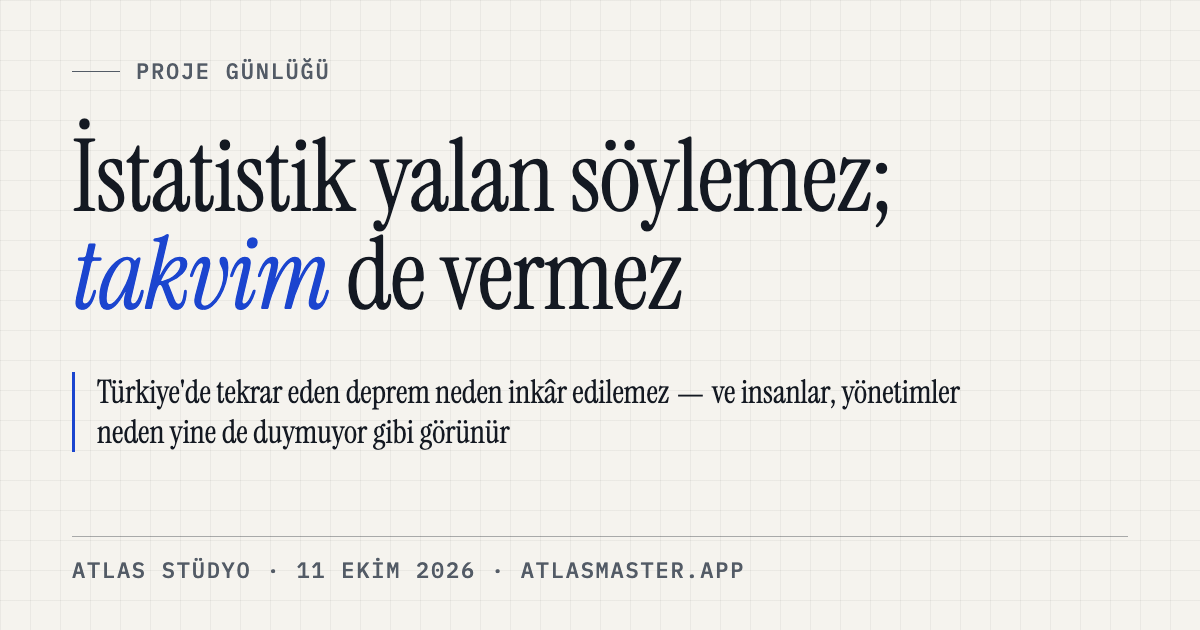
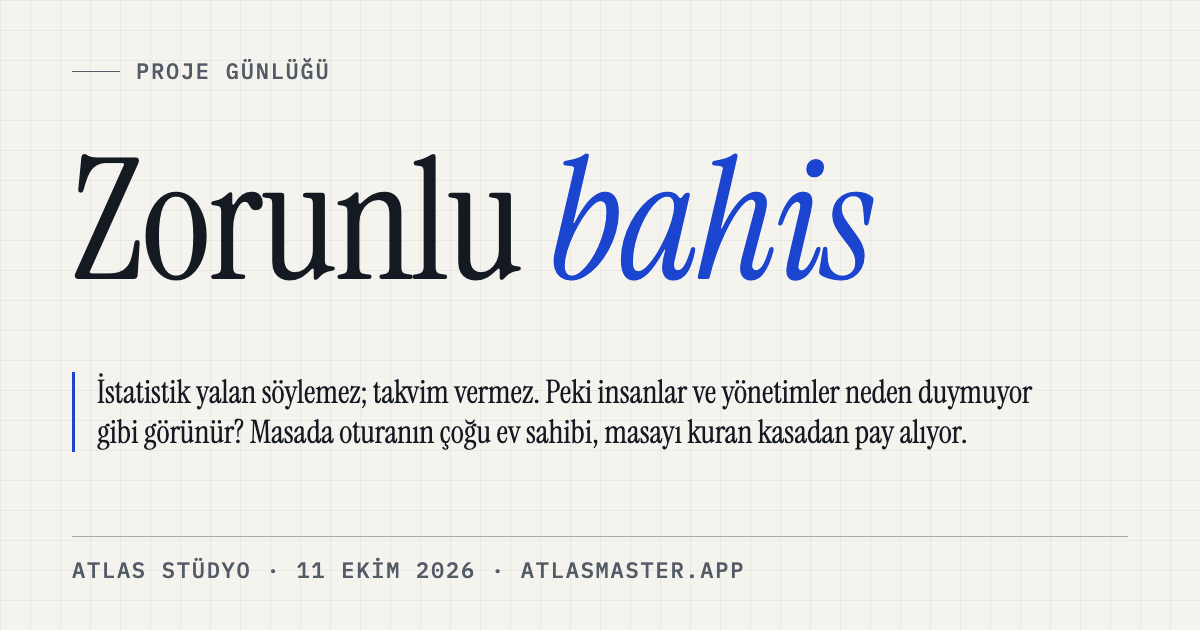
Blog 3. yazı taslak v2: Zorunlu bahis (deprem; metin YAZI.md ile değişti, tutum matrisi kaydırılabilir, tez kartları, künye); noindex, yayın onayı bekliyor

Changed region(s): [[0.0617, 0.181, 0.74, 0.5127], [0.0617, 0.6032, 0.8633, 0.7238]]

diff --git a/blog/deprem-istatistik-vurdumduymazlik.html b/blog/deprem-istatistik-vurdumduymazlik.html
@@ -4,18 +4,18 @@
 <meta name="robots" content="noindex">
 <meta charset="utf-8">
 <meta name="viewport" content="width=device-width, initial-scale=1">
-<title>İstatistik yalan söylemez; takvim de vermez — Atlas Stüdyo · Proje Günlüğü</title>
-<meta name="description" content="Türkiye&#x27;de tekrar eden deprem neden inkâr edilemez — ve insanlar, yönetimler neden yine de duymuyor gibi görünür">
+<title>Zorunlu bahis — Atlas Stüdyo · Proje Günlüğü</title>
+<meta name="description" content="İstatistik yalan söylemez; takvim vermez. Peki insanlar ve yönetimler neden duymuyor gibi görünür? Masada oturanın çoğu ev sahibi, masayı kuran kasadan pay alıyor.">
 <meta name="theme-color" content="#f5f3ee" media="(prefers-color-scheme: light)">
 <meta name="theme-color" content="#0c1016" media="(prefers-color-scheme: dark)">
-<meta property="og:title" content="İstatistik yalan söylemez; takvim de vermez">
-<meta property="og:description" content="Türkiye&#x27;de tekrar eden deprem neden inkâr edilemez — ve insanlar, yönetimler neden yine de duymuyor gibi görünür">
+<meta property="og:title" content="Zorunlu bahis">
+<meta property="og:description" content="İstatistik yalan söylemez; takvim vermez. Peki insanlar ve yönetimler neden duymuyor gibi görünür? Masada oturanın çoğu ev sahibi, masayı kuran kasadan pay alıyor.">
 <meta property="og:type" content="article">
 <meta property="og:url" content="https://atlasmaster.app/blog/deprem-istatistik-vurdumduymazlik.html">
 <meta property="og:image" content="https://atlasmaster.app/blog/og-deprem.png">
 <meta property="og:image:width" content="1200">
 <meta property="og:image:height" content="630">
-<meta property="og:image:alt" content="Proje günlüğü. İstatistik yalan söylemez; takvim de vermez. Türkiye&#x27;de tekrar eden deprem neden inkâr edilemez — ve insanlar, yönetimler neden yine de duymuyor gibi görünür Atlas Stüdyo, 11 Ekim 2026.">
+<meta property="og:image:alt" content="Proje günlüğü. Zorunlu bahis. İstatistik yalan söylemez; takvim vermez. Peki insanlar ve yönetimler neden duymuyor gibi görünür? Masada oturanın çoğu ev sahibi, masayı kuran kasadan pay alıyor. Atlas Stüdyo, 11 Ekim 2026.">
 <meta name="twitter:card" content="summary_large_image">
 <meta name="twitter:image" content="https://atlasmaster.app/blog/og-deprem.png">
 <link rel="canonical" href="https://atlasmaster.app/blog/deprem-istatistik-vurdumduymazlik.html">
@@ -58,12 +58,12 @@
 <header class="post-head">
   <div class="wrap">
     <p class="eyebrow"><a href="../blog.html" style="color:inherit;text-decoration:none">Proje günlüğü</a></p>
-    <h1>İstatistik yalan söylemez; <em>takvim</em> de vermez</h1>
-    <p class="dek">Türkiye'de tekrar eden deprem neden inkâr edilemez — ve insanlar, yönetimler neden yine de duymuyor gibi görünür</p>
+    <h1>Zorunlu <em>bahis</em></h1>
+    <p class="dek">İstatistik yalan söylemez; takvim vermez. Peki insanlar ve yönetimler neden duymuyor gibi görünür? Masada oturanın çoğu ev sahibi, masayı kuran kasadan pay alıyor.</p>
     <div class="meta">
       <time datetime="2026-10-11">11 Ekim 2026</time>
       <span class="by">Atlas Stüdyo</span>
-      <span>8 dk okuma</span>
+      <span>10 dk okuma</span>
     </div>
   </div>
 </header>
@@ -75,94 +75,151 @@
     <ol id="toc-liste">
       <li><a href="#elenenler">Önce elenenler</a></li>
       <li><a href="#birinci-yari">Birinci yarı: istatistik ne söyler</a></li>
-      <li><a href="#ikinci-yari">İkinci yarı: "vurdumduymaz" sözcüğünün içi</a></li>
+      <li><a href="#ikinci-yari">İkinci yarı: masada kim oturuyor</a></li>
       <li><a href="#yonetim">Yönetim: yapmıyor değil, yavaş yapıyor ve yanlış anlatıyor</a></li>
       <li><a href="#oneriler">Biz ne öneririz</a></li>
-      <li><a href="#duser">Fikrimizi ne değiştirir?</a></li>
+      <li><a href="#cokertir">Bu yazıyı hangi sayı çökertir?</a></li>
+      <li><a href="#matris">Tutum matrisi (ölçüldü; alıntıyla)</a></li>
       <li><a href="#yontem">Bu yazı nasıl hazırlandı</a></li>
       <li><a href="#kaynakca">Kaynakça</a></li>
       <li><a href="#sorumluluk">Sorumluluk notu</a></li>
     </ol>
   </nav>
   <div class="post">
-    <p>Bu yazı bir soruyla başladı: "İstatistik yalan söylemezken insanlar ve yönetimler neden vurdumduymaz?" Soru ikiye bölündü. Birincisi istatistiğin ne söyleyip ne söyleyemediği; ikincisi "vurdumduymaz" sözcüğünün arkasında gerçekte ne olduğu. Önce günler sürecek bir araştırma istedik, sonra yedi yapay zekâ sesini birbirini görmeden konuşturduk; biri karşı ses olarak kuruldu, bir başkası da bütün uyuşmayı dövmekle görevlendirildi. Sayıları iki geçişte doğruladık: 124 atıf açıldı; dolaşımdaki beş popüler sayı kaynağa dayanmadığı için yazıya giremedi. Kişi yok, kurum var; hüküm yok, ölçü var.</p>
+    <p>Bu yazı bir soruyla başladı: "İstatistik yalan söylemezken insanlar ve yönetimler neden vurdumduymaz?" İlk tur yedi yapay zekâ sesini uzlaştırdı; yazı sahibi sonucu fazla yumuşak buldu ve soruyu sertleştirdi: <em>Çürük binada oturan "bana bir şey olmaz" diyen kim — ev sahibi mi, "kiracıyım, gelir geçerim" diyen mi? İnsan kumarı seviyor; bu zaaf kullanılıyor. Seleksiyon mu, suistimal mi?</em> İkinci turda on ses birbirini görmeden cevap verdi, biri karşı ses olarak kuruldu, bir kırmızı takım da uyuşmayı dövdü ve altı itirazının beşi bu yazıyı değiştirdi. Sayılar üç geçişte doğrulandı; dolaşımdaki beş popüler sayı kaynağa dayanmadığı için girmedi. Kişi yok, kurum var; her tezin altında hangi modelin savunduğu, hangisinin karşı çıktığı yazılı.</p>
     <h2 id="elenenler">Önce elenenler</h2>
-    <p>"İmar barışından altı milyon bina yararlandı" — hiçbir kaynakta yok; resmî Yapı Kayıt Belgesi sayısı 133.064. "Kahramanmaraş'ta 255 bin bina yıkıldı" — Strateji ve Bütçe Başkanlığı'nın 6 Mart 2023 tablosu 232.632 (yıkık, acil yıkılacak ve ağır hasarlı toplamı). "Hatay'da yıkılanların yarısı 2001 öncesi" — yanlış; %97,7'si 1999 öncesi. "Afette insanların %70–80'i donup kalır" — Wikipedia'dan Gizmodo'ya giden bir zincir, hakemli kaynak yok. "Türkiye'de yüzyılda 20 büyük deprem" — sayı kataloğa ve eşiğe göre değişiyor (resmî raporda 20, USGS sayımında 24); yazıda "yirmiyi aşkın" diyoruz. İstatistik yalan söylemez; onu aktaranlar söyler.</p>
+    <p>"İmar barışından altı milyon bina yararlandı" — hiçbir kaynakta yok; resmî Yapı Kayıt Belgesi sayısı 133.064. "255 bin bina yıkıldı" — SBB'nin 6 Mart 2023 tablosu 232.632. "Hatay'da yıkılanların yarısı 2001 öncesi" — %97,7'si 1999 öncesi. "Afette insanların %70–80'i donup kalır" — Wikipedia'dan Gizmodo'ya giden zincir. "Türkiye'de yüzyılda 20 büyük deprem" — kataloğa göre 20–24; "yirmiyi aşkın" diyoruz. Kendi ilk taslağımızdan da iki sayı düştü: Spor-Toto'nun "22 milyar TL reklamı" bahis reklamı değil, spora reklam karşılığı mali katkıymış (Sayıştay); 581 milyar bahis cirosunu 13 milyar sigorta primiyle yan yana koymak da elma–armutmuş. İstatistik yalan söylemez; onu aktaranlar söyler.</p>
     <h2 id="birinci-yari">Birinci yarı: istatistik ne söyler</h2>
-    <p>Türkiye'de yüzyılda yirmiyi aşkın büyüklüğü 7'yi geçen deprem oldu. Kuzey Anadolu Fayı 1939 Erzincan'dan 1999 İzmit'e kadar batıya doğru ardışık kırıldı; Marmara'nın altındaki parça kırılmadı. Bu kadarı tarih, tartışması yok.</p>
-    <p>Tartışma "ne zaman"da başlıyor, ve burada iki model var. Belleksiz model (Poisson) der ki: deprem geçmişi hatırlamaz, her yıl aynı olasılık; bu modelde "gecikmiş deprem" diye bir şey olamaz. Zamana bağlı model der ki: fay gerilim biriktirir, geçen süre olasılığı büyütür. Marmara için ikisi de hesaplandı (Parsons 2004): 2004–2034 arasında büyük deprem olasılığı belleksiz modelde yaklaşık %38, zamana bağlı modelde %44±18, komşu kırılmaların yükünü ekleyince %53±18. Yani Marmara'da "gecikti" sözü kaba ama yönü doğru: saat durmuyor. Ama saat takvim değil. Dünya kayıtlarında zamana bağlı modelin belleksiz modelden belirgin iyi olduğu saha sayısı on dokuzda dört (Ellsworth vd. 1999). İstatistiğin dürüst cümlesi şu: "Bu pencerede şu ihtimalle, şu belirsizlikle." Tarih veren her cümle istatistik değil, çeviridir.</p>
-    <p>Peki inkâr edilemeyen ne? Tarih değil; iki şey: olasılığın yüksek olduğu ve karşısında duran bina stoğunun bilindiği. Kahramanmaraş'ta yıkılan binaların %96,7'si 1999 öncesi yapım. Bu sayının iki yüzü var ve yazı ikisini de söyler: 1999 öncesi stok tehlikenin adresi; aynı zamanda 2001 sonrası kuralların çalıştığının kanıtı, çünkü bölgede 2001 sonrası binada oturan hane %51 iken yıkılanlardaki payı %3,3. Payda uyarısı: bu bir pay, oran değil; "yeni bina güvenli" diye okunursa nüfusun yarısına bedava rahatlık dağıtır.</p>
-    <h2 id="ikinci-yari">İkinci yarı: "vurdumduymaz" sözcüğünün içi</h2>
-    <p>Sözcüğü başlıkta tuttuk, gövdede söküyoruz. Türkiye verisi tek bir kayıtsızlık değil, üç ayrı durum gösteriyor.</p>
-    <p><strong>Duyup çeviremeyenler.</strong> AFAD'ın 2014 ulusal anketinde evinde acil durum planı yapmamış olanlar %91; kendini hazırlıklı görenler %10, hazırlıksız görenler %70. İstanbul'da 2026 anketinde deprem endişesi %94. Endişe var, eylem yok; literatür buna "risk algısı paradoksu" diyor: bilgi tek başına davranışı taşımaz (Türkiye'de Kasapoğlu ve Ecevit, Marmara sonrası). Japonya'da 2011'den sonra bile insanların bugünü yarına tercih etme eğilimi arttı (Akesaka 2019): ders alma otomatik değil, bazen tersine işliyor.</p>
-    <p><strong>Kendine yormayanlar.</strong> Aynı AFAD anketinde yaşadığı yerin deprem derecesini bilen %22; oturduğu bölgeyi afet riski altında görmeyen %80. 2026'da binasını güvenli bulan %59; "benim binam yıkılır" diyen %18. Bu kitle duymuyor değil, "bana olmaz" diyor; psikolojide adı gerçekdışı iyimserlik (Weinstein 1980). Çaresi plan broşürü değil, adresli bilgi: bu binanın yapım yılı, zemini, tespiti.</p>
-    <p><strong>Bütçeyle kilitli olanlar.</strong> Can kaybını belirleyen önlem binanın kendisi; binayı yenilemenin bedeli bir hanenin yıllık gelirinin katları. Çürük raporu alıp oturmaya devam edenlerin %70,6'sı gerekçe olarak parayı söylüyor. Bu bir psikoloji bulgusu değil, bütçe bulgusu; ekonomi diliyle rasyonel bekleyiş: bedel bugün ve kesin, getiri "otuz yılda yüzde kırk ihtimalle". Kurtarma beklentisi (devlet nasıl olsa yardım eder) bekleyişi ucuzlatır.</p>
-    <p>Bir de kadercilik var; ama Türkiye'de ölçülen çalışmada (Türküm 2006) baskın açıklayıcı çıkmadı. Moderatör, ana neden değil.</p>
+    <p>Türkiye'de yüzyılda yirmiyi aşkın büyüklüğü 7'yi geçen deprem oldu; Kuzey Anadolu Fayı 1939'dan 1999'a batıya ardışık kırıldı, Marmara'nın altındaki parça kırılmadı. "Ne zaman" iki modelin işi. Belleksiz model (Poisson) her yıla aynı olasılığı verir; bu modelde "gecikmiş deprem" olamaz. Zamana bağlı model gerilim birikir der. Marmara için ikisi de hesaplandı (Parsons 2004): 2004–2034 arasında belleksiz modelde %38, zamana bağlı modelde %44±18, komşu kırılmalarla %53±18. Yani "gecikti" sözü kaba ama yönü doğru: saat durmuyor. Ama saat takvim değil: dünya kayıtlarında zamana bağlı modelin belirgin üstün olduğu saha on dokuzda dört (Ellsworth vd. 1999). İstatistiğin dürüst cümlesi "bu pencerede şu ihtimalle, şu belirsizlikle"dir; tarih veren her cümle çeviridir.</p>
+    <p>İnkâr edilemeyen tarih değil, iki şey: olasılığın yüksek olduğu ve karşısında duran bina stoğunun bilindiği. Kahramanmaraş'ta yıkılan binaların %96,7'si 1999 öncesi. Bu sayının iki yüzü var: 1999 öncesi stok tehlikenin adresi; aynı zamanda 2001 sonrası kuralların çalıştığının kanıtı, çünkü bölgede 2001 sonrası binada oturan hane %51 iken yıkılanlardaki payı %3,3. Payda uyarısı: "yeni bina güvenli" diye okunursa nüfusun yarısına bedava rahatlık dağıtır.</p>
+    <h2 id="ikinci-yari">İkinci yarı: masada kim oturuyor</h2>
+    <div class="tezler">
+      <article class="tez" id="tez-1" aria-labelledby="tez-1-b">
+        <span class="idx">Tez 1</span>
+        <h3 id="tez-1-b">"Bana bir şey olmaz" bir ev sahibi cümlesidir; kiracı rahat değil, riske maruz bırakılmıştır.</h3>
+        <p>Depremin vurduğu 11 ilde hanelerin %62,3'ü kendi evinde oturuyordu, %25,7'si kiracıydı (SBB, TÜİK 2021). "Kiracıyım, gelir geçerim" en fazla dörtte biri açıklar. Elimizdeki tek mülkiyet kırılımlı ölçüm İstanbul'dan (İPA 2020, n=769): evine "hiç ya da az hasar gelir" diyen ev sahibi %43, kiracı %25. Kiracıların %57'si 1999 öncesi binada (ev sahiplerinin %47'si); çürük raporu çıkarsa taşınırım diyen kiracı %71, ev sahibi %53; kalacağını söyleyenlerin %80'i gerekçe olarak parayı gösteriyor. Sahibin "binam sağlam"ı bilgi değil varlık savunması: tespit yaptırırsa evinin değeri düşer, masraf doğar; kanun tespiti ona bırakmış (6306 m.3), o da yaptırmıyor (tespit yaptırmamış %74,5). Kiracının "gelir geçerim"i rahatlık değil çıkış opsiyonu; asıl kilit bölünmüş teşvik: riski kiracı taşır, kararı malik verir, kirayı malik alır. Çürük binada kimin öldüğü mülkiyete göre hiç sayılmadı.</p>
+        <dl class="tz-alt">
+          <div><dt>Savunan</dt><dd>Gemini Flash, Gemini uygulaması, Opus, Astra, Enki, Grok Bot, Grok Asistan (İPA verisini bulan).</dd></div>
+          <div><dt>Kısmen</dt><dd>Gemini Pro, Enlil ("ölçülmedi").</dd></div>
+        </dl>
+      </article>
+      <article class="tez" id="tez-2" aria-labelledby="tez-2-b">
+        <span class="idx">Tez 2</span>
+        <h3 id="tez-2-b">İnsan kumarı sever; ama deprem ters piyangodur ve kuram yazı sahibinin aleyhine çalışır.</h3>
+        <p>Sezgi yarı doğru: insan "bilmeden emin" — deprem endişesi %94, "benim binam yıkılır" %18. Ama küçük olasılığı abartan zihin (Kahneman–Tversky) sigortayı da satın alır ve Türkiye'de alıyor: zorunlu deprem sigortası %56; Kaliforniya'da 2002'den beri %16'yı geçmedi. İlk taslağımızdaki "piyango tanımdan, deprem deneyimden öğrenilir" ayrımı kırmızı takımla düştü: spor bahsi de her hafta deneyimle öğrenilir. Kalan cümle şu: asıl kumar kayıp alanında — kesin küçük bedel (tespit, güçlendirme) yerine olası büyük kaybı seçmek. Bahis umut satar, hazırlık kayıp küçültmeyi satar; umutsuz insana umut satmayan ürün satılmaz. Ve kumar seçim ister: raporlu binada kalanların %80'i para diyor; seçeneği olmayan kumar oynamaz, yoksulluğa karakter kusuru denmez.</p>
+        <dl class="tz-alt">
+          <div><dt>Savunan</dt><dd>Gemini Flash, Gemini uygulaması, Opus, Astra, Enki, Grok Bot, Grok Asistan.</dd></div>
+          <div><dt>Karşı çıkan</dt><dd>Gemini Pro ("aynı zaaf") — kırmızı takım bu karşı çıkışı kısmen haklı buldu.</dd></div>
+        </dl>
+      </article>
+      <article class="tez" id="tez-3" aria-labelledby="tez-3-b">
+        <span class="idx">Tez 3</span>
+        <h3 id="tez-3-b">Çaresizlik bahse iter; Türkiye'de bu ölçülmedi, son günler nabızdır, kanıt değil.</h3>
+        <p>Literatürde var: uzun süreli işsizlikte kumar bozukluğu riski 2,2 kat (Norveç); 30 ülkede genç işsizliği ile 16 yaş bahsi ilişkili. Türkiye'de kumar bağımlılığı başvuruları 3.006'dan 5.748'e çıktı (YEDAM, 2022→2025; %80'i 20–40 yaş); genç işsizliği %13, atıl işgücü %31, enflasyon %30. Ama karşı ses haklı: aynı literatür işsizlik şokunda piyango harcamasının düştüğünü de buluyor; ölçülen kumar yaygınlığı 2020–2025'te düşmüş, yükselen tek kalem çevrim içi yasa dışı bahis. Son günler: 9 Ekim'de Uşak merkezli 8 ilde yasa dışı bahis operasyonu (22 yakalama, 5,1 milyar TL para hareketi), Ankara ve Manisa'da 61 tutuklama. "Fon krizi" ise başka şey: SPK'nın 131 fonu tasfiyesi (455 bin yatırımcı), X'te tek günde 48 bin "fonzede" gönderisi — çaresiz kumarbazlar değil, düzenli ürüne güvenen tasarruf sahipleri; ikisini tek başlıkta toplamak kategori hatası. Aynı kişide bahis harcaması ile deprem hazırlığını ölçen Türkiye verisi yok; yazı bunu açık bırakır.</p>
+        <dl class="tz-alt">
+          <div><dt>Savunan</dt><dd>Grok Bot (X ölçümü).</dd></div>
+          <div><dt>Kısmen</dt><dd>Opus, Astra, Enki, Enlil.</dd></div>
+          <div><dt>Karşı çıkan</dt><dd>Grok Asistan (yaygınlık düştü; fon krizi ayrı kategori).</dd></div>
+        </dl>
+      </article>
+      <article class="tez" id="tez-4" aria-labelledby="tez-4-b">
+        <span class="idx">Tez 4</span>
+        <h3 id="tez-4-b">Suistimal için kast şart değil; hukuk "öngörerek göze alma"yı zaten tespit etti.</h3>
+        <p>İlk taslak "niyetli fail yok, kurumsal denge var" diyordu. Kırmızı takım iki yönden düzeltti. Bir: failler var ve adları mahkeme kararında — 3 Şubat 2025 itibarıyla 1.346 kamu davası, karara bağlanan 75 dosyada 130 kişiye hapis; tipik suç bilinçli taksir, yani neticeyi öngörüp göze alma. "Suistimal" için kast gerekmez, öngörülmüş zarardan kazanç yeter. İki: af talep ediliyor — imar barışına 3,6 milyon gönüllü başvuru; oturan ev sahibi hem masada hem riskin altında. Devlet affı arz ediyor (1948–2018 arası yaklaşık yirmi düzenleme), bahsi kendi kurumuyla işletiyor, resen tespit yetkisini kullanmıyor; üç ayrı kalem, tek bir "zaaf" değil. Kalan cümle: zaafı yaratan değil, fiyatlayıp satan sorumlu; ilk af bir denge olabilir, yirminci af bilinçli tercihtir.</p>
+        <dl class="tz-alt">
+          <div><dt>Savunan</dt><dd>Opus, Astra, Enki, Enlil, Gemini uygulaması, Grok Bot.</dd></div>
+          <div><dt>Kısmen</dt><dd>Gemini Pro, Gemini Flash ("sistemli suistimal" — daha sert), Grok Asistan ("kasıtsız denge" — daha yumuşak).</dd></div>
+        </dl>
+      </article>
+      <article class="tez" id="tez-5" aria-labelledby="tez-5-b">
+        <span class="idx">Tez 5</span>
+        <h3 id="tez-5-b">Seleksiyon değil dağıtım: risk alınmadı, atandı.</h3>
+        <p>"Risk alan ölür" tutmaz, çünkü ölen çoğu zaman riski seçen değil riskli binaya düşen: çocuk, kiracı, gece 04:17'de uyuyan. Yıkımı kişilik değil binanın doğum yılı ayırıyor (%96,7). Olaydan sonra "bunlar riski seçti" demek sonradan görme yanlılığı: kişinin kısıtını kişiliğine yüklemek. Kırmızı takım bizim bir cümlemizi de düşürdü: "elenmeyen tek taraf kararın sahibi" — çoğunluk ev sahibiyse kararın sahibi de ölenlerin içinde. Doğru cümle şu: kararı veren ile ölen çoğu zaman aynı kişi değil; aynı kişiyse de kararı parasızlık verdi.</p>
+        <dl class="tz-alt">
+          <div><dt>Savunan</dt><dd>on sesin onu; kısmen Opus ve Astra (ölenlerin mülkiyet kırılımı yok).</dd></div>
+        </dl>
+      </article>
+    </div>
     <h2 id="yonetim">Yönetim: yapmıyor değil, yavaş yapıyor ve yanlış anlatıyor</h2>
-    <p>Buradaki yaygın tez şudur: önlenen felaket oy getirmez, yardım getirir; bu yüzden yönetimler hazırlığı erteler. ABD'de ölçüldü (Healy ve Malhotra 2009: hazırlığa harcanan bir dolar on beş dolarlık hasar önlüyor, seçmen yine de yardımı ödüllendiriyor), Almanya'da ölçüldü (2002 Elbe seli yardımı yedi puan getirdi, 2009'da sıfırlandı). Türkiye'ye aynen taşınmıyor: 1999'dan sonra 2002 seçmeni yalnız depremi yönetenleri değil, çürük yapıların yapıldığı dönemde iktidarda ve belediyede olanları da cezalandırdı (Akarca ve Tansel 2016). 2023'te seçmen hesap sormadı; neden sormadığını bu yazı ölçemiyor, ölçen bir çalışma da henüz yok.</p>
-    <p>Sayılar ise kayıtsızlık değil, yavaş ve gerçek bir birikim anlatıyor: yapı denetimi 2001'de on dokuz ilde, 2011'de ülke genelinde; zorunlu deprem sigortası sıfırdan %56'ya çıktı ve 2023'te 541.616 dosyaya 39,6 milyar lira ödedi; kentsel dönüşümde 2012'den beri 2,4 milyon bağımsız bölüm tamamlandı. Aynı sayının iki okuması var ve ikisi de doğru: hedef yılda 300–400 bin, gerçekleşen 13 yılda 2,4 milyon, yani hedefin yaklaşık %36'sı; ya da sıfırdan 2,4 milyona. Yönetimin kusuru yapmamak değil, bu tabloyu her yıl bağımsız onaylı yayımlamamak.</p>
-    <p>İki kusur daha var ve ikisi de kayıtlı. Birincisi af: 1948'den 2018'e af niteliğinde yaklaşık yirmi yasa. Af bir unutkanlık değil, bir alışveriş: devlet bugün gelir ve rıza alır, yarının riskini malike devreder; yetmiş yılda yirmi kez tekrarlanınca kural "bekleyene af" beklentisine döner ve mevzuata uymanın değeri düşer. İkincisi ölçmeyi sürdürmemek: 2014'teki ulusal hazırlık anketinin aynı soruyla tekrarı yok. Vurdumduymazlığın bir biçimi de budur: ölçmeyi bırakmak.</p>
-    <p>Bir not da hukuka: riskli yapı tespiti için apartman toplantısı beklemek gerekmiyor; kanun tespiti maliklere yaptırıyor, idare kendiliğinden de yapabiliyor (6306 sayılı Kanun, m.3). Yenileme kararı için aranan çoğunluk Kasım 2023'te üçte ikiden hisse çoğunluğuna indi (m.6). "Komşular istemiyor" gerekçesi eskisi kadar güçlü değil.</p>
+    <p>Sayılar kayıtsızlık değil yavaş bir birikim gösteriyor: yapı denetimi 2001'de 19 ilde, 2011'de ülke genelinde; zorunlu sigorta sıfırdan %56'ya; 2023 depremlerinde 523 bin dosyaya 39 milyar lira ödendi; kentsel dönüşümde 2012'den beri 2,4 milyon bağımsız bölüm — yılda 300–400 bin hedefin yaklaşık %36'sı, ya da sıfırdan 2,4 milyona; iki okuma da doğru. Kusur yapmamak değil: bu tabloyu her yıl bağımsız onaylı yayımlamamak, af döngüsü ve ölçmeyi sürdürmemek (2014 ulusal hazırlık anketinin tekrarı yok). "Önlenen felaket oy getirmez" tezi ABD ve Almanya'da ölçüldü; Türkiye'ye aynen taşınmıyor: 2002 seçmeni çürük yapı döneminin partilerini de cezalandırdı (Akarca–Tansel 2016), 2023 seçmeni hesap sormadı — nedenini ölçen çalışma yok.</p>
     <h2 id="oneriler">Biz ne öneririz</h2>
     <ol class="recs">
-      <li><p><strong>Önce kendine yor.</strong> Binanın yapım yılını, zeminini, tespit olup olmadığını öğren; belediye adresli risk haritası yayımlıyorsa bak, yayımlamıyorsa iste. Ölçü: "binam yıkılır" diyenlerle tespit yaptıranların aynı ankette birlikte sayılması.</p></li>
-      <li><p><strong>Parasız üçlü.</strong> Aile planı, buluşma yeri, eşya sabitleme. Ölçü: 2014 sorusunun tekrarı; %91 plansız, %80'in altına insin.</p></li>
-      <li><p><strong>Toplantıyı bekleme.</strong> Tespit için kurul kararı gerekmiyor; uygulama için hisse çoğunluğu yetiyor. Ölçü: il bazında yıllık tespit başvurusu sayısı.</p></li>
-      <li><p><strong>Belediye, envanteri aç.</strong> Riskli stok adresli ve herkese açık. Ölçü: yayımlayan ilçe sayısı ve kapsanan bina payı.</p></li>
-      <li><p><strong>Hedef–gerçekleşme tablosu, bağımsız onaylı, her yıl.</strong> İki okuma yan yana. Ölçü: tablo var mı; yeni bir af düzenlemesi var mı.</p></li>
+      <li><p><strong>Mülkiyet kırılımlı ulusal anket:</strong> "binanız güvenli mi" sorusu ev sahibi / kiracı ayrımıyla. Ölçü: ilk ulusal sonuç.</p></li>
+      <li><p><strong>Resen tespit:</strong> idare 6306 m.3 yetkisini 1999 öncesi stokta kullansın; yıllık sayı yayımlansın.</p></li>
+      <li><p><strong>Kiracıya hak:</strong> kiracı da tespit başlatabilsin; kira sözleşmesinde yapım yılı ve riskli yapı durumu zorunlu bilgi olsun.</p></li>
+      <li><p><strong>Af beklentisini kır:</strong> kayıtlı (belgeli) yapılar hasar sonrası tazminattan düşürülsün; ölçü: yeni af düzenlemesi var mı.</p></li>
+      <li><p><strong>Ölçmeyi sürdür:</strong> 2014 sorusu tekrar; aynı ankete bahis harcaması sorusu — aynı kişide bahis ve hazırlığın ilk Türkiye verisi.</p></li>
     </ol>
-    <section class="box fall" aria-labelledby="duser">
-      <h2 id="duser">Fikrimizi ne değiştirir?</h2>
+    <section class="box fall" aria-labelledby="cokertir">
+      <h2 id="cokertir">Bu yazıyı hangi sayı çökertir?</h2>
       <ul>
-        <li><span>Aynı kişiye "binanız ağır hasar görür mü" ve "tespit yaptırdınız mı" birlikte sorulur: eylemsizlik "görmez" diyenlerde yığılıyorsa sorun algı, "görür" diyenlerde yığılıyorsa sorun eylemdir.</span></li>
-        <li><span>Marmara için 2020 sonrası bir tehlike çalışması zamana bağlı olasılığı belleksiz modele eşit verirse "saat durmuyor" cümlesi düşer.</span></li>
-        <li><span>2023 seçmen davranışı üstüne hakemli bir çalışma "hesap sordu" bulursa yönetim bölümü değişir.</span></li>
-        <li><span>Envanterini açan belediyelerde dönüşüm hızı diğerlerinden yüksek çıkmazsa "adresli bilgi" önerisi düşer.</span></li>
-        <li><span>2014 anketi tekrarlanmazsa bu yazının kendi ölçüsü de yerinde sayar.</span></li>
+        <li><span>Mülkiyet kırılımlı ulusal anket iyimserliği kiracıda bulursa Tez 1 düşer (İstanbul 2020 tersini bulmuştu).</span></li>
+        <li><span>Aynı kişide bahis harcaması ile hazırlık ters orantılı çıkarsa (n≥1.000) "aynı zaaf değil" düşer; yazı sahibinin cümlesi kazanır.</span></li>
+        <li><span>Mahkûmiyetlerin çoğunluğu "basit taksir"e dönerse "öngörerek göze alma" cümlesi düşer.</span></li>
+        <li><span>Yıkılanlar içinde belgeli yapı payı açıklanır ve %5'in altında çıkarsa "riskin perakende satışı" zayıflar.</span></li>
+        <li><span>Raporlu binada kalanların çoğunluğu "param var, gerek görmüyorum" derse Tez 2'nin son cümlesi düşer.</span></li>
       </ul>
     </section>
+    <h2 id="matris">Tutum matrisi (ölçüldü; alıntıyla)</h2>
+    <div class="tablo-kay" tabindex="0" role="region" aria-label="Tutum matrisi (yatay kaydırılabilir)">
+      <table class="matris">
+        <thead><tr><th scope="col">Tez</th><th scope="col">Gemini Pro</th><th scope="col">Gemini Flash</th><th scope="col">Gemini uyg.</th><th scope="col">Opus</th><th scope="col">Astra</th><th scope="col">Enki</th><th scope="col">Enlil</th><th scope="col">Grok Bot</th><th scope="col">Grok Asistan</th></tr></thead>
+        <tbody>
+          <tr><th scope="row">1 Ev sahibi cümlesi</th><td class="ks">kısmen</td><td class="sv">savunan</td><td class="sv">savunan</td><td class="sv">savunan</td><td class="sv">savunan</td><td class="sv">savunan</td><td class="ks">kısmen</td><td class="sv">savunan</td><td class="sv">savunan</td></tr>
+          <tr><th scope="row">2 Ters piyango</th><td class="kr">karşı</td><td class="sv">savunan</td><td class="sv">savunan</td><td class="sv">savunan</td><td class="sv">savunan</td><td class="sv">savunan</td><td class="ks">kısmen</td><td class="sv">savunan</td><td class="sv">savunan</td></tr>
+          <tr><th scope="row">3 Çaresizlik–bahis</th><td class="yk">—</td><td class="yk">—</td><td class="yk">—</td><td class="ks">kısmen</td><td class="ks">kısmen</td><td class="ks">kısmen</td><td class="ks">kısmen</td><td class="sv">savunan</td><td class="kr">karşı</td></tr>
+          <tr><th scope="row">4 Öngörerek göze alma</th><td class="ks">kısmen</td><td class="ks">kısmen</td><td class="sv">savunan</td><td class="sv">savunan</td><td class="sv">savunan</td><td class="sv">savunan</td><td class="sv">savunan</td><td class="sv">savunan</td><td class="ks">kısmen</td></tr>
+          <tr><th scope="row">5 Dağıtım</th><td class="sv">savunan</td><td class="sv">savunan</td><td class="sv">savunan</td><td class="ks">kısmen</td><td class="ks">kısmen</td><td class="sv">savunan</td><td class="sv">savunan</td><td class="sv">savunan</td><td class="sv">savunan</td></tr>
+        </tbody>
+      </table>
+    </div>
+    <p>İlk yedi ses için tutumlar ses dosyalarından alıntıyla ölçüldü (56 hücre); Grok Bot ve Grok Asistan sonradan geldi, tutumları editör okumasıdır.</p>
     <section class="box sheet colophon" aria-labelledby="yontem">
       <h2 id="yontem">Bu yazı nasıl hazırlandı</h2>
+      <p>İki Kıvılcım turu. Önce uzun soluklu araştırma: Antigravity ajanı → Gemini 3.1 Pro, Claude Opus 5.5 (SBB, ÇŞİDB, AFAD, DASK belgeleri; 44 olgu), Astra (ChatGPT), Grok (web), Grok Bot ajanı (X API), Grok Asistan. Kaynak doğrulama üç geçiş; doğrulanamayan hiçbir sayı yazıya girmedi. TUR 1 yedi sesle; yazı sahibi sonucu yetersiz buldu. TUR 2 sert brifle on ses: Antigravity → Gemini 3.1 Pro ve Gemini 3.8 Flash; Gemini uygulaması; Claude Opus 5.5; Astra; stüdyo ajanları Enki ve Enlil; Grok Bot ajanı (X: on sorgu, yedi gün) ve karşı ses Grok Asistan (İPA 2020 raporunun PDF'ini açtı). İki ayrı veri ölçümü: mülkiyet/kiracı/6306 ve çaresizlik/bahis/son günler. Ses×tez matrisi 56 hücre: açık karşı çıkış bir (Gemini Pro, Tez 2) ve o karşı çıkış kırmızı takımla kısmen haklı çıktı. Kırmızı takım (Claude Opus 5.5) altı itiraz yazdı, beşi yazıyı değiştirdi: "22 milyar reklam" düştü, "581'e karşı 13" düştü, "niyet kanıtı yok" düştü (130 hapis), "elenmeyen tek taraf" düştü, "tanımdan/deneyimden" düştü. Orkestra ve sentez: Anu — üst akıl (Claude Fable 5.1). Son kontrol ve yayın kararı: insan editör.</p>
       <dl class="kv">
         <div><dt>Tarih</dt><dd><time datetime="2026-10-11">11 Ekim 2026</time></dd></div>
         <div><dt>İmza</dt><dd>Atlas Stüdyo</dd></div>
         <div><dt>Orkestra ve sentez</dt><dd><ul><li><b>Anu</b> <i>üst akıl · Claude Fable 5.1</i></li></ul></dd></div>
-        <div><dt>Ajanlar (araştırma)</dt><dd><ul><li><b>Antigravity</b> <i>ajan → Gemini 3.1 Pro (katalog ve istatistik)</i></li><li><b>Grok Bot</b> <i>ajan; X'te 7 günde ~33 bin "deprem" gönderisi</i></li></ul></dd></div>
-        <div><dt>Araştırma modelleri</dt><dd><ul><li>Claude Opus 5.5 <i>44 olgu; SBB raporu, ÇŞİDB ve AFAD belgeleri, DASK, hakemli literatür</i></li><li>Astra <i>ChatGPT; istatistik sınırı ve psikoloji</i></li><li>Grok <i>web</i></li><li>Grok Asistan <i>psikoloji paketi</i></li></ul></dd></div>
-        <div><dt>Kaynak doğrulama</dt><dd>İki geçiş: 124 atıf, 12'si doğrulanamadı ve yazıya girmedi.</dd></div>
-        <div><dt>Kıvılcım turu</dt><dd>Yedi ses birbirini görmeden; karşı ses Grok Asistan.</dd></div>
-        <div><dt>Kırmızı takım</dt><dd><ul><li>Claude Opus 5.5 <i>altı itiraz yazdı; dördü sentezi değiştirdi: "gecikti" sözünün Marmara için yönü doğru, bir kitle riski kendine yormuyor, bir kitle bütçeyle kilitli, yönetim yapmıyor değil yavaş yapıyor</i></li></ul></dd></div>
+        <div><dt>Ajanlar</dt><dd><ul><li><b>Antigravity</b> <i>ajan → Gemini 3.1 Pro (uzun soluklu araştırma); ikinci turda Gemini 3.1 Pro ve Gemini 3.8 Flash</i></li><li><b>Grok Bot</b> <i>ajan; X API, on sorgu, yedi gün</i></li><li>Stüdyo ajanları: Enki · Enlil</li></ul></dd></div>
+        <div><dt>Araştırma ve sesler</dt><dd><ul><li>Claude Opus 5.5 <i>SBB, ÇŞİDB, AFAD, DASK belgeleri; 44 olgu</i></li><li>Astra <i>ChatGPT</i></li><li>Grok <i>web</i></li><li>Gemini uygulaması</li><li>Grok Asistan <i>karşı ses; İPA 2020 raporunun PDF'ini açtı</i></li></ul></dd></div>
+        <div><dt>Kırmızı takım</dt><dd><ul><li>Claude Opus 5.5 <i>altı itiraz yazdı, beşi yazıyı değiştirdi</i></li></ul></dd></div>
+        <div><dt>Kaynak doğrulama</dt><dd>Üç geçiş; doğrulanamayan hiçbir sayı yazıya girmedi.</dd></div>
+        <div><dt>Kıvılcım turları</dt><dd>TUR 1 yedi ses; TUR 2 sert brifle on ses. Ses×tez matrisi 56 hücre.</dd></div>
         <div><dt>Son kontrol ve yayın kararı</dt><dd>İnsan editör</dd></div>
       </dl>
+      <p class="fam">Dört model ailesi: Claude · Gemini · Grok · ChatGPT.</p>
     </section>
     <h2 id="kaynakca">Kaynakça</h2>
     <ol class="refs">
-      <li><div>Strateji ve Bütçe Başkanlığı, "2023 Kahramanmaraş ve Hatay Depremleri Raporu" (Mart 2023), Tablo 12, 18, 20.</div></li>
+      <li><div>Strateji ve Bütçe Başkanlığı, "2023 Kahramanmaraş ve Hatay Depremleri Raporu" (Mart 2023), Tablo 12, 17, 18, 20 (Tablo 17: TÜİK Nüfus ve Konut Sayımı 2021, mülkiyet).</div></li>
+      <li><div>İstanbul Planlama Ajansı, "İstanbul'da Depremle İlgili Algı ve Tutum Araştırması" (Kasım 2020, n=769) — <a href="https://ipa.istanbul/images/Calismalar/istanbulda-deprem-ile-ilgili-algi-ve-tutum-arastirmasi-96863.pdf" rel="noopener">https://ipa.istanbul/images/Calismalar/istanbulda-deprem-ile-ilgili-algi-ve-tutum-arastirmasi-96863.pdf</a></div></li>
       <li><div>Çevre, Şehircilik ve İklim Değişikliği Bakanlığı, 2023 ve 2025 Faaliyet Raporları.</div></li>
       <li><div>AFAD, "Türkiye Afet Farkındalığı ve Afetlere Hazırlık Araştırması" (2014).</div></li>
-      <li><div>DASK, 2024 Faaliyet Raporu.</div></li>
-      <li><div>TBMM/ÇŞİB, 7143 sayılı Kanun uygulaması: Yapı Kayıt Belgesi sayısı 133.064.</div></li>
-      <li><div>6306 sayılı Afet Riski Altındaki Alanların Dönüştürülmesi Hakkında Kanun, güncel metin (7471/2023 değişiklikleri), <a href="https://www.mevzuat.gov.tr/" rel="noopener">mevzuat.gov.tr</a>.</div></li>
-      <li><div>Uçar Altınışık (2022), imar afları üzerine hakemli çalışma (1948–2018).</div></li>
-      <li><div>Parsons, T. (2004). "Recalculated probability of M≥7 earthquakes beneath the Sea of Marmara, Turkey." <em>Journal of Geophysical Research</em> 109, B05304.</div></li>
-      <li><div>Ellsworth, W. L. vd. (1999). "A physically-based earthquake recurrence model for estimation of long-term earthquake probabilities." USGS Open-File Report 99-522.</div></li>
-      <li><div>Matthews, Ellsworth, Reasenberg (2002). "A Brownian model for recurrent earthquake occurrence." <em>BSSA</em> 92(6).</div></li>
-      <li><div>Stein, S. &amp; Stein, J. (2017). "Overdue earthquakes" tartışması, <em>Seismological Research Letters</em> / ilgili yazın.</div></li>
-      <li><div>Akesaka, M. (2019). "Change in time preferences: Evidence from the Great East Japan Earthquake." <em>Journal of Economic Behavior &amp; Organization</em> 166.</div></li>
-      <li><div>Kasapoğlu, A. &amp; Ecevit, M. (2003). "Impact of the 1999 East Marmara earthquake in Turkey." <em>Population and Environment</em> 24(4).</div></li>
-      <li><div>Türküm, A. S. (2006). Kadercilik ve deprem hazırlığı üzerine çalışma (Türkiye).</div></li>
-      <li><div>Wachinger, G. vd. (2013). "The risk perception paradox." <em>Risk Analysis</em> 33(6).</div></li>
-      <li><div>Weinstein, N. D. (1980). "Unrealistic optimism about future life events." <em>JPSP</em> 39(5).</div></li>
-      <li><div>Healy, A. &amp; Malhotra, N. (2009). "Myopic voters and natural disaster policy." <em>American Political Science Review</em> 103(3).</div></li>
-      <li><div>Bechtel, M. &amp; Hainmueller, J. (2011). "How lasting is voter gratitude?" <em>AJPS</em> 55(4).</div></li>
-      <li><div>Akarca, A. T. &amp; Tansel, A. (2016). "Voter reaction to government incompetence and corruption related to the 1999 earthquakes in Turkey." <em>Journal of Economic Studies</em> 43(2).</div></li>
-      <li><div>Ambraseys, N. &amp; Bilham, R. (2011). "Corruption kills." <em>Nature</em> 469.</div></li>
-      <li><div>İMSAD 2026 ve İPA Afet Bilinci anketleri (ikincil aktarım; n=1.067 ve n=761).</div></li>
-      <li><div>Grok Bot, X API sayımı: "deprem", son 7 gün (11 Eki 2026).</div></li>
+      <li><div>DASK, 2024 Faaliyet Raporu (%56; 11,25 milyon poliçe; 2023 ödemeleri).</div></li>
+      <li><div>Sayıştay, Spor Toto Teşkilat Başkanlığı 2024 Yılı Denetim Raporu (Eylül 2025): brüt satış 581,5 milyar TL; "reklam karşılığı mali katkı".</div></li>
+      <li><div>6306 sayılı Kanun, güncel metin (7471/2023), mevzuat.gov.tr.</div></li>
+      <li><div>7143 sayılı Kanun (İmar Barışı) uygulaması: Yapı Kayıt Belgesi 133.064 (ÇŞİB/TBMM); başvuru 3.599.867 (Bakanlık yanıtı, 2019; ikincil).</div></li>
+      <li><div>Adalet Bakanlığı/Yargıtay açıklamaları, Şubat 2025: 1.346 kamu davası, 75 karar, 130 hapis (ikincil aktarım).</div></li>
+      <li><div>Yeşilay YEDAM, kumar başvuruları 2022–2025 (Ocak 2026).</div></li>
+      <li><div>Parsons, T. (2004). <em>JGR</em> 109, B05304.</div></li>
+      <li><div>Ellsworth vd. (1999). USGS OFR 99-522.</div></li>
+      <li><div>Matthews vd. (2002). <em>BSSA</em> 92(6).</div></li>
+      <li><div>Kahneman &amp; Tversky (1979). "Prospect Theory." <em>Econometrica</em> 47(2); Barberis (2013). <em>JEP</em> 27(1).</div></li>
+      <li><div>Syvertsen vd. (2024), işsizlik ve kumar bozukluğu (Norveç); Spångberg &amp; Svensson (2020), genç işsizliği ve bahis, 30 ülke.</div></li>
+      <li><div>Kasapoğlu &amp; Ecevit (2003). <em>Population and Environment</em> 24(4).</div></li>
+      <li><div>Wachinger vd. (2013). <em>Risk Analysis</em> 33(6).</div></li>
+      <li><div>Weinstein (1980). <em>JPSP</em> 39(5).</div></li>
+      <li><div>Healy &amp; Malhotra (2009). <em>APSR</em> 103(3).</div></li>
+      <li><div>Akarca &amp; Tansel (2016). <em>Journal of Economic Studies</em> 43(2).</div></li>
+      <li><div>Bechtel &amp; Hainmueller (2011). <em>AJPS</em> 55(4).</div></li>
+      <li><div>Ambraseys &amp; Bilham (2011). "Corruption kills." <em>Nature</em> 469.</div></li>
+      <li><div>İçişleri Bakanlığı / MASAK açıklamaları ve güvenilir basın: 29 Eylül–9 Ekim 2026 yasa dışı bahis operasyonları; SPK duyuruları: 131 fon tasfiyesi (Eylül–Ekim 2026).</div></li>
+      <li><div>Grok Bot, X API sayımları (4–11 Ekim 2026): bahis, fonzede, kumar, umutsuzluk sorguları.</div></li>
     </ol>
     <aside class="legal sorumluluk" aria-labelledby="sorumluluk">
       <h2 id="sorumluluk">Sorumluluk notu</h2>
-      <p>Yazı kurum eylemlerini kaynaklı sayıyla anlatır, kişi hedef almaz; sayılar belirtilen tarihte ölçülmüştür ve değişir. Deprem riski için resmî bilgi AFAD ve belediyelerdedir.</p>
+      <p>Yazı kurum eylemlerini kaynaklı sayıyla anlatır, kişi hedef almaz; mahkeme sayıları resmî açıklamanın ikincil aktarımıdır. Sayılar belirtilen tarihte ölçülmüştür ve değişir. Deprem riski için resmî bilgi AFAD ve belediyelerdedir.</p>
     </aside>
     <p class="back"><a href="../blog.html">← Tüm yazılar</a></p>
   </div>

diff --git a/blog.html b/blog.html
@@ -66,9 +66,9 @@
     <div class="posts">
       <article class="pcard">
         <ul class="tags" aria-label="Etiketler" style="margin:0"><li class="tag acc" title="Aynı soru, birbirinin cevabını görmeyen yapay zekâ modellerine ayrı ayrı soruldu">Kıvılcım turu</li><li class="tag dr">Taslak</li></ul>
-        <h2><a href="blog/deprem-istatistik-vurdumduymazlik.html">İstatistik yalan söylemez; takvim de vermez</a></h2>
-        <p class="sum">Türkiye'de tekrar eden deprem neden inkâr edilemez — ve insanlar, yönetimler neden yine de duymuyor gibi görünür</p>
-        <p class="meta"><time datetime="2026-10-11">11 Ekim 2026</time><span class="by">Atlas Stüdyo</span><span>8 dk okuma</span><span class="go" aria-hidden="true">Yazıyı oku →</span></p>
+        <h2><a href="blog/deprem-istatistik-vurdumduymazlik.html">Zorunlu bahis</a></h2>
+        <p class="sum">İstatistik yalan söylemez; takvim vermez. Peki insanlar ve yönetimler neden duymuyor gibi görünür? Masada oturanın çoğu ev sahibi, masayı kuran kasadan pay alıyor.</p>
+        <p class="meta"><time datetime="2026-10-11">11 Ekim 2026</time><span class="by">Atlas Stüdyo</span><span>10 dk okuma</span><span class="go" aria-hidden="true">Yazıyı oku →</span></p>
       </article>
       <article class="pcard">
         <ul class="tags" aria-label="Etiketler" style="margin:0"><li class="tag acc" title="Aynı soru, birbirinin cevabını görmeyen yapay zekâ modellerine ayrı ayrı soruldu">Kıvılcım turu</li></ul>

diff --git a/blog.css b/blog.css
@@ -224,3 +224,15 @@
 .sorumluluk h2{font:500 .6875rem/1.9 var(--mono);letter-spacing:.06em;text-transform:uppercase;color:var(--mut);margin:0 0 6px;border:0;padding:0}
 .sorumluluk p{margin:0;overflow-wrap:anywhere}
 .toc a[aria-current]{color:var(--acc)}
+
+/* tutum matrisi: dar ekranda kendi içinde yatay kayar */
+.tablo-kay{overflow-x:auto;-webkit-overflow-scrolling:touch;margin:1.4em 0 1em;border:1px solid var(--line);background:var(--surface)}
+.tablo-kay:focus-visible{outline:2px solid var(--acc);outline-offset:2px}
+.matris{border-collapse:collapse;min-width:46em;width:100%;font-size:.875rem;line-height:1.4}
+.matris th,.matris td{padding:9px 12px;border-bottom:1px solid var(--line);text-align:left;white-space:nowrap}
+.matris thead th{font:500 .6875rem/1.5 var(--mono);letter-spacing:.04em;text-transform:uppercase;color:var(--mut);background:var(--surface)}
+.matris tbody th{font-weight:500;position:sticky;left:0;background:var(--surface);border-right:1px solid var(--line);white-space:normal;min-width:11em}
+.matris tr:last-child>*{border-bottom:0}
+.matris td.sv{color:var(--acc);font-weight:500}
+.matris td.kr{color:var(--warn);font-weight:500}
+.matris td.ks,.matris td.yk{color:var(--mut)}
